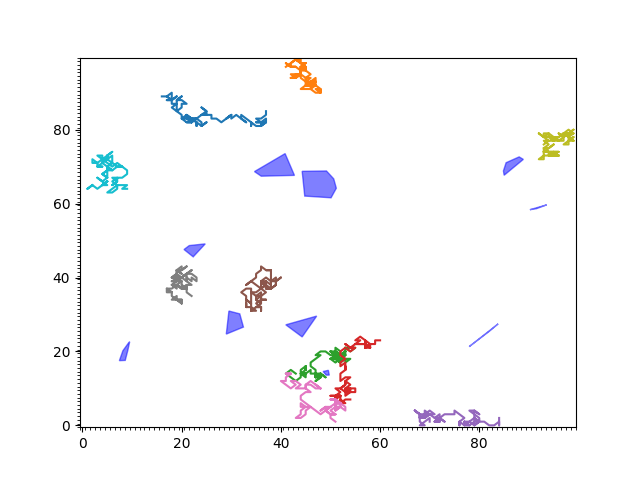
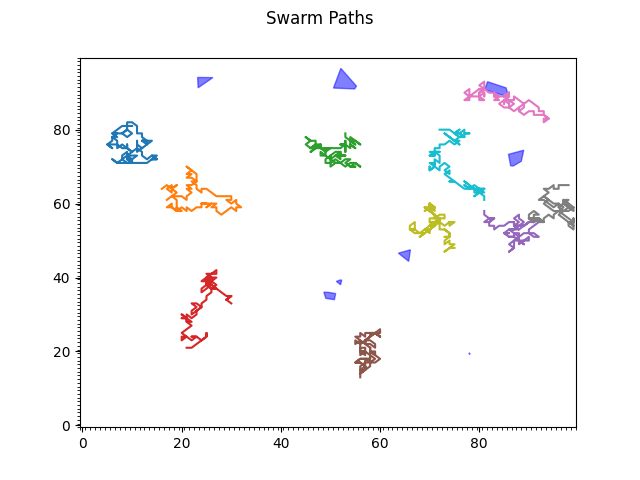
updated visualizations, occ_map update mechanism

diff --git a/main.py b/main.py
@@ -85,7 +85,7 @@ class Environment:
     def update_occ_map(self, new_pos):
       # if(new_pos[0]<0 or new_pos[1]<0 or new_pos[0]>=self.size[0] or new_pos[1]>=self.size[0]):
       try:
-        self.occupancy_map[new_pos] = 1
+        self.occupancy_map[new_pos] += 1
       except:
         print("ERROR: occupancy_map update FAILED ")
       #   print(new_pos)
@@ -96,14 +96,14 @@ class Environment:
     
     def display_occ_map(self):
       plt.figure(figsize=(10, 8))
-      sns.heatmap(self.occupancy_map, cmap="YlGnBu", cbar=False)
-      plt.title("Occupied Map(Dark = Visited, Light = Non-Visted)")
+      sns.heatmap(np.rot90(self.occupancy_map), cmap="PRGn", cbar=False)
+      plt.suptitle("Occupied Map")
       plt.show()
     
     def save_occ_map(self):
       plt.figure(figsize=(10, 8))
-      sns.heatmap(np.rot90(self.occupancy_map), cmap="YlGnBu", cbar=False)
-      plt.title("Occupied Map(Dark = Visited, Light = Non-Visted)")
+      sns.heatmap(np.rot90(self.occupancy_map), cmap="PRGn", cbar=False)
+      plt.title("Occupied Map")
       plt.savefig(visualization_dir + "occ_map.png")
 
 
@@ -199,7 +199,8 @@ class Swarm:
         #print(x_pos)
         #print(y_pos)
         ax.plot(x_pos, y_pos)
-        fig.savefig(visualization_dir + "path.png")
+      fig.suptitle("Swarm Paths")
+      fig.savefig(visualization_dir + "path.png")
 
 
     def animate(self, interval=200, filename='animation.gif'):
@@ -228,6 +229,7 @@ class Swarm:
           return lines
 
       # Create the animation
+      fig.suptitle("Animated Swarm Paths")
       anim = animation.FuncAnimation(fig, animate_func, init_func=init,
                                       frames=len(self.actors[0].get_path()), interval=interval, blit=True)
 
@@ -243,6 +245,5 @@ rand_env.random_obstacles(num_obstacles, max_vertices, max_size)
 test_swarm = Swarm(num_actors, rand_env, init = 'random')
 test_swarm.random_walk(100)
 test_swarm.plot()
-# test_swarm.savePlot()
-test_swarm.animate() # this causes a lot of slowdowns
 rand_env.save_occ_map()
+test_swarm.animate() # this causes a lot of slowdowns
